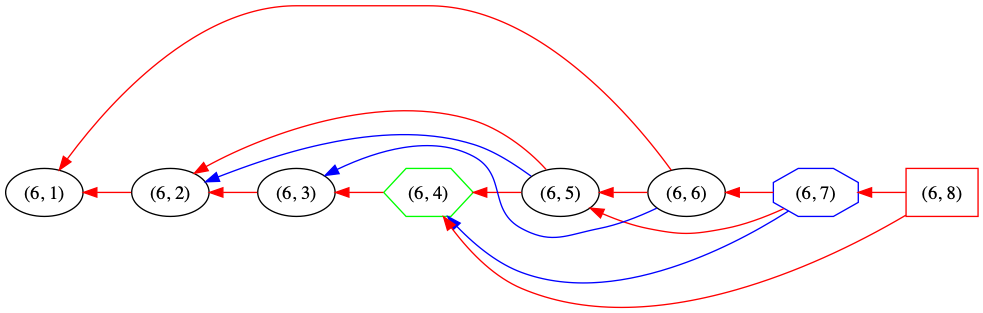
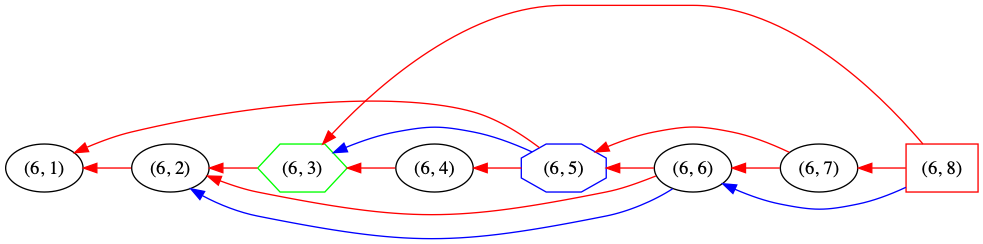
Use graph notation in tables, for legibility.

diff --git a/replication/zigzag-commitments/zigzag-commitments.html b/replication/zigzag-commitments/zigzag-commitments.html
@@ -562,21 +562,21 @@ graphs above, where \(l\) indexes layers, and \(i\) indexes labels.
 <td class="left">&#xa0;</td>
 <td class="left">&#xa0;</td>
 <td class="left">&#xa0;</td>
-<td class="left">Even Challenge</td>
 <td class="left">&#xa0;</td>
+<td class="left">Even Challenge</td>
 <td class="left">&#xa0;</td>
 <td class="left">&#xa0;</td>
 </tr>
 
 <tr>
-<td class="left">\(e_1^{(0)}\)</td>
-<td class="left">\(e_2^{(0)}\)</td>
-<td class="left">\(e_3^{(0)}\)</td>
-<td class="left">\(e_4^{(0)}\)</td>
-<td class="left">\(e_5^{(0)}\)</td>
-<td class="left">\(e_6^{(0)}\)</td>
-<td class="left">\(e_7^{(0)}\)</td>
-<td class="left">\(e_8^{(0)}\)</td>
+<td class="left">(0, 1)</td>
+<td class="left">(0, 2)</td>
+<td class="left">(0, 3)</td>
+<td class="left">(0, 4)</td>
+<td class="left">(0, 5)</td>
+<td class="left">(0, 6)</td>
+<td class="left">(0, 7)</td>
+<td class="left">(0, 8)</td>
 </tr>
 </tbody>
 </table>
@@ -608,7 +608,7 @@ To open \(D_i\), provide a merkle proof \(D_i \rightarrow Comm_D\).
 <div id="outline-container-sec-3-4" class="outline-3">
 <h3 id="sec-3-4"><span class="section-number-3">3.4</span> ZigZag Replica Columns</h3>
 <div class="outline-text-3" id="text-3-4">
-</div><ol class="org-ol"><li><a id="sec-3-4-1" name="sec-3-4-1"></a>Odd Partition<br  /><div class="outline-text-4" id="text-3-4-1">
+</div><ol class="org-ol"><li><a id="sec-3-4-1" name="sec-3-4-1"></a>Unpartitioned Columns<br  /><div class="outline-text-4" id="text-3-4-1">
 <table border="2" cellspacing="0" cellpadding="6" rules="groups" frame="hsides">
 
 
@@ -633,45 +633,137 @@ To open \(D_i\), provide a merkle proof \(D_i \rightarrow Comm_D\).
 <tr>
 <td class="left">DRG Parents</td>
 <td class="left">Odd Expander Parents</td>
-<td class="left">&#xa0;</td>
-<td class="left">&#xa0;</td>
-<td class="left">Challenges</td>
-<td class="left">&#xa0;</td>
+<td class="left"><code>~~~~</code></td>
+<td class="left"><code>~~~~</code></td>
 <td class="left">Even Expander Parents</td>
-<td class="left">&#xa0;</td>
+<td class="left">Challenges</td>
+<td class="left"><code>~~~~</code></td>
+<td class="left"><code>~~~~</code></td>
 </tr>
 
 <tr>
-<td class="left">\(e_1^{(1)}\)</td>
-<td class="left">\(e_2^{(1)}\)</td>
-<td class="left">\(e_3^{(1)}\)</td>
-<td class="left">\(e_4^{(1)}\)</td>
-<td class="left">\(e_5^{(1)}\)</td>
-<td class="left">\(e_6^{(1)}\)</td>
-<td class="left">\(e_7^{(1)}\)</td>
-<td class="left">\(e_8^{(1)}\)</td>
+<td class="left">(1, 1)</td>
+<td class="left">(1, 2)</td>
+<td class="left">(1, 3)</td>
+<td class="left">(1, 4)</td>
+<td class="left">(1, 5)</td>
+<td class="left">(1, 6)</td>
+<td class="left">(1, 7)</td>
+<td class="left">(1, 8)</td>
 </tr>
 
 <tr>
-<td class="left">\(e_1^{(3)}\)</td>
-<td class="left">\(e_2^{(3)}\)</td>
-<td class="left">\(e_3^{(3)}\)</td>
-<td class="left">\(e_4^{(3)}\)</td>
-<td class="left">\(e_5^{(3)}\)</td>
-<td class="left">\(e_6^{(3)}\)</td>
-<td class="left">\(e_7^{(3)}\)</td>
-<td class="left">\(e_8^{(3)}\)</td>
+<td class="left">(2, 8)</td>
+<td class="left">(2, 7)</td>
+<td class="left">(2, 6)</td>
+<td class="left">(2, 5)</td>
+<td class="left">(2, 4)</td>
+<td class="left">(2, 3)</td>
+<td class="left">(2, 2)</td>
+<td class="left">(2, 1)</td>
 </tr>
 
 <tr>
-<td class="left">\(e_1^{(5)}\)</td>
-<td class="left">\(e_2^{(5)}\)</td>
-<td class="left">\(e_3^{(5)}\)</td>
-<td class="left">\(e_4^{(5)}\)</td>
-<td class="left">\(e_5^{(5)}\)</td>
-<td class="left">\(e_6^{(5)}\)</td>
-<td class="left">\(e_7^{(5)}\)</td>
-<td class="left">\(e_8^{(5)}\)</td>
+<td class="left">(3, 1)</td>
+<td class="left">(3, 2)</td>
+<td class="left">(3, 3)</td>
+<td class="left">(3, 4)</td>
+<td class="left">(3, 5)</td>
+<td class="left">(3, 6)</td>
+<td class="left">(3, 7)</td>
+<td class="left">(3, 8)</td>
+</tr>
+
+<tr>
+<td class="left">(4, 8)</td>
+<td class="left">(4, 7)</td>
+<td class="left">(4, 6)</td>
+<td class="left">(4, 5)</td>
+<td class="left">(4, 4)</td>
+<td class="left">(4, 3)</td>
+<td class="left">(4, 2)</td>
+<td class="left">(4, 1)</td>
+</tr>
+
+<tr>
+<td class="left">(5, 1)</td>
+<td class="left">(5, 2)</td>
+<td class="left">(5, 3)</td>
+<td class="left">(5, 4)</td>
+<td class="left">(5, 5)</td>
+<td class="left">(5, 6)</td>
+<td class="left">(5, 7)</td>
+<td class="left">(5, 8)</td>
+</tr>
+</tbody>
+</table>
+</div>
+</li>
+
+<li><a id="sec-3-4-2" name="sec-3-4-2"></a>Odd Partition<br  /><div class="outline-text-4" id="text-3-4-2">
+<table border="2" cellspacing="0" cellpadding="6" rules="groups" frame="hsides">
+
+
+<colgroup>
+<col  class="left" />
+
+<col  class="left" />
+
+<col  class="left" />
+
+<col  class="left" />
+
+<col  class="left" />
+
+<col  class="left" />
+
+<col  class="left" />
+
+<col  class="left" />
+</colgroup>
+<tbody>
+<tr>
+<td class="left">DRG Parents</td>
+<td class="left">Odd Expander Parents</td>
+<td class="left"><code>~~~~</code></td>
+<td class="left"><code>~~~~</code></td>
+<td class="left">Even Expander Parents</td>
+<td class="left">Challenges</td>
+<td class="left"><code>~~~~</code></td>
+<td class="left"><code>~~~~</code></td>
+</tr>
+
+<tr>
+<td class="left">(1, 1)</td>
+<td class="left">(1, 2)</td>
+<td class="left">(1, 3)</td>
+<td class="left">(1, 4)</td>
+<td class="left">(1, 5)</td>
+<td class="left">(1, 6)</td>
+<td class="left">(1, 7)</td>
+<td class="left">(1, 8)</td>
+</tr>
+
+<tr>
+<td class="left">(3, 1)</td>
+<td class="left">(3, 2)</td>
+<td class="left">(3, 3)</td>
+<td class="left">(3, 4)</td>
+<td class="left">(3, 5)</td>
+<td class="left">(3, 6)</td>
+<td class="left">(3, 7)</td>
+<td class="left">(3, 8)</td>
+</tr>
+
+<tr>
+<td class="left">(5, 1)</td>
+<td class="left">(5, 2)</td>
+<td class="left">(5, 3)</td>
+<td class="left">(5, 4)</td>
+<td class="left">(5, 5)</td>
+<td class="left">(5, 6)</td>
+<td class="left">(5, 7)</td>
+<td class="left">(5, 8)</td>
 </tr>
 </tbody>
 </table>
@@ -686,7 +778,7 @@ Column hash \(O_i = H(e_i^{(1)}, e_i^{(3)}, … e_i^{(L-1)})\).
 </div>
 </li>
 
-<li><a id="sec-3-4-2" name="sec-3-4-2"></a>Even Partition<br  /><div class="outline-text-4" id="text-3-4-2">
+<li><a id="sec-3-4-3" name="sec-3-4-3"></a>Even Partition<br  /><div class="outline-text-4" id="text-3-4-3">
 <table border="2" cellspacing="0" cellpadding="6" rules="groups" frame="hsides">
 
 
@@ -711,34 +803,34 @@ Column hash \(O_i = H(e_i^{(1)}, e_i^{(3)}, … e_i^{(L-1)})\).
 <tr>
 <td class="left">DRG Parents</td>
 <td class="left">Odd Expander Parents</td>
-<td class="left">&#xa0;</td>
-<td class="left">&#xa0;</td>
-<td class="left">Challenges</td>
-<td class="left">&#xa0;</td>
+<td class="left"><code>~~~~</code></td>
+<td class="left"><code>~~~~</code></td>
 <td class="left">Even Expander Parents</td>
-<td class="left">&#xa0;</td>
+<td class="left">Challenges</td>
+<td class="left"><code>~~~~</code></td>
+<td class="left"><code>~~~~</code></td>
 </tr>
 
 <tr>
-<td class="left">\(e_8^{(2)}\)</td>
-<td class="left">\(e_7^{(2)}\)</td>
-<td class="left">\(e_6^{(2)}\)</td>
-<td class="left">\(e_5^{(2)}\)</td>
-<td class="left">\(e_4^{(2)}\)</td>
-<td class="left">\(e_3^{(2)}\)</td>
-<td class="left">\(e_2^{(2)}\)</td>
-<td class="left">\(e_1^{(2)}\)</td>
+<td class="left">(2, 8)</td>
+<td class="left">(2, 7)</td>
+<td class="left">(2, 6)</td>
+<td class="left">(2, 5)</td>
+<td class="left">(2, 4)</td>
+<td class="left">(2, 3)</td>
+<td class="left">(2, 2)</td>
+<td class="left">(2, 1)</td>
 </tr>
 
 <tr>
-<td class="left">\(e_8^{(4)}\)</td>
-<td class="left">\(e_7^{(4)}\)</td>
-<td class="left">\(e_6^{(4)}\)</td>
-<td class="left">\(e_5^{(4)}\)</td>
-<td class="left">\(e_4^{(4)}\)</td>
-<td class="left">\(e_3^{(4)}\)</td>
-<td class="left">\(e_2^{(4)}\)</td>
-<td class="left">\(e_1^{(4)}\)</td>
+<td class="left">(4, 8)</td>
+<td class="left">(4, 7)</td>
+<td class="left">(4, 6)</td>
+<td class="left">(4, 5)</td>
+<td class="left">(4, 4)</td>
+<td class="left">(4, 3)</td>
+<td class="left">(4, 2)</td>
+<td class="left">(4, 1)</td>
 </tr>
 </tbody>
 </table>
@@ -754,7 +846,7 @@ Column hash \(E_i = H(e_i^{(2)}, e_i^{(4)}, … e_i^{(L)})\).
 </div>
 </li>
 
-<li><a id="sec-3-4-3" name="sec-3-4-3"></a>Vector Commitment<br  /><div class="outline-text-4" id="text-3-4-3">
+<li><a id="sec-3-4-4" name="sec-3-4-4"></a>Vector Commitment<br  /><div class="outline-text-4" id="text-3-4-4">
 <p>
 Produce the column leaves: \(C_i = H(O_i || E_i)\).
 </p>
@@ -769,7 +861,7 @@ Generate Merkle tree for column leaves:
 </div>
 </li>
 
-<li><a id="sec-3-4-4" name="sec-3-4-4"></a>Opening<br  /><ol class="org-ol"><li><a id="sec-3-4-4-1" name="sec-3-4-4-1"></a>To open only odd-layer labels<br  /><div class="outline-text-5" id="text-3-4-4-1">
+<li><a id="sec-3-4-5" name="sec-3-4-5"></a>Opening<br  /><ol class="org-ol"><li><a id="sec-3-4-5-1" name="sec-3-4-5-1"></a>To open only odd-layer labels<br  /><div class="outline-text-5" id="text-3-4-5-1">
 <p>
 Reveal all odd-layer labels and prove they hash to \(O_i\) (\(L / 2\) hash proofs).
 Reveal the \(E_i\) (\(0\) hash proofs).
@@ -780,7 +872,7 @@ Note: odd-layer labels of \(C_i\) have index \(i\).
 </p>
 </div>
 </li>
-<li><a id="sec-3-4-4-2" name="sec-3-4-4-2"></a>To open only even layer labels<br  /><div class="outline-text-5" id="text-3-4-4-2">
+<li><a id="sec-3-4-5-2" name="sec-3-4-5-2"></a>To open only even layer labels<br  /><div class="outline-text-5" id="text-3-4-5-2">
 <p>
 Reveal all even layer labels and prove they hash to \(E_i\)  (\(L / 2\) hash proofs).
 Reveal the \(O_i\) (\(0\) hash proofs).
@@ -791,14 +883,14 @@ Note: even-layer labels of \(C_i\) have index \((N-i)+1\).
 </p>
 </div>
 </li>
-<li><a id="sec-3-4-4-3" name="sec-3-4-4-3"></a>To open all labels<br  /><div class="outline-text-5" id="text-3-4-4-3">
+<li><a id="sec-3-4-5-3" name="sec-3-4-5-3"></a>To open all labels<br  /><div class="outline-text-5" id="text-3-4-5-3">
 <p>
 Reveal all labels and prove they hash to \(E_i\) and \(O_i\) as above. (\(L\) hash proofs).
 </p>
 </div>
 </li>
 
-<li><a id="sec-3-4-4-4" name="sec-3-4-4-4"></a>Then, in every case<br  /><div class="outline-text-5" id="text-3-4-4-4">
+<li><a id="sec-3-4-5-4" name="sec-3-4-5-4"></a>Then, in every case<br  /><div class="outline-text-5" id="text-3-4-5-4">
 <ul class="org-ul">
 <li>Prove \(H(O_i, E_i) \rightarrow Comm_C\).
 </li>
@@ -837,23 +929,23 @@ Reveal all labels and prove they hash to \(E_i\) and \(O_i\) as above. (\(L\) ha
 <tr>
 <td class="left">&#xa0;</td>
 <td class="left">&#xa0;</td>
-<td class="left">&#xa0;</td>
 <td class="left">Even Challenge</td>
 <td class="left">&#xa0;</td>
-<td class="left">&#xa0;</td>
 <td class="left">Even Expander Parent</td>
+<td class="left">&#xa0;</td>
+<td class="left">&#xa0;</td>
 <td class="left">Even DRG Parent</td>
 </tr>
 
 <tr>
-<td class="left">\(e_1^{(6)}\)</td>
-<td class="left">\(e_2^{(6)}\)</td>
-<td class="left">\(e_3^{(6)}\)</td>
-<td class="left">\(e_4^{(6)}\)</td>
-<td class="left">\(e_5^{(6)}\)</td>
-<td class="left">\(e_6^{(6)}\)</td>
-<td class="left">\(e_7^{(6)}\)</td>
-<td class="left">\(e_8^{(6)}\)</td>
+<td class="left">(6, 1)</td>
+<td class="left">(6, 2)</td>
+<td class="left">(6, 3)</td>
+<td class="left">(6, 4)</td>
+<td class="left">(6, 5)</td>
+<td class="left">(6, 6)</td>
+<td class="left">(6, 7)</td>
+<td class="left">(6, 8)</td>
 </tr>
 </tbody>
 </table>
